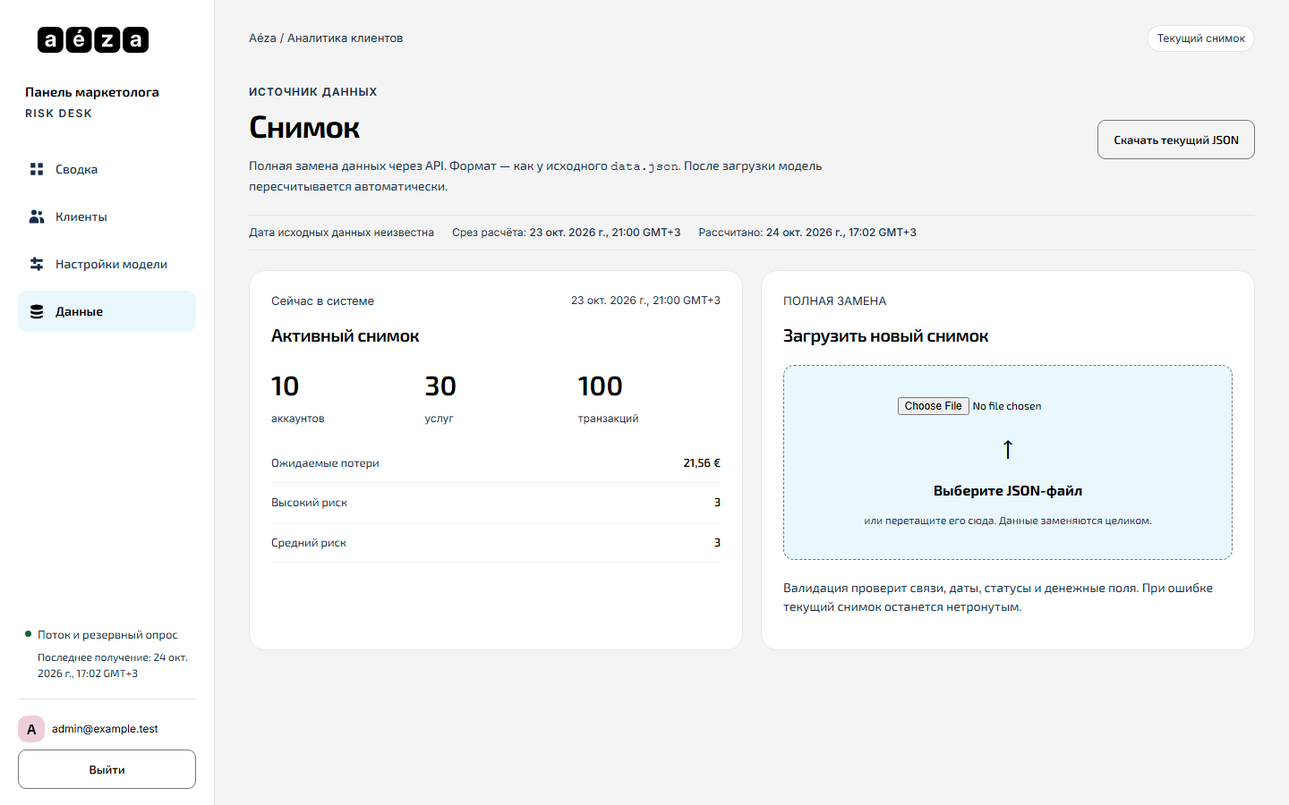
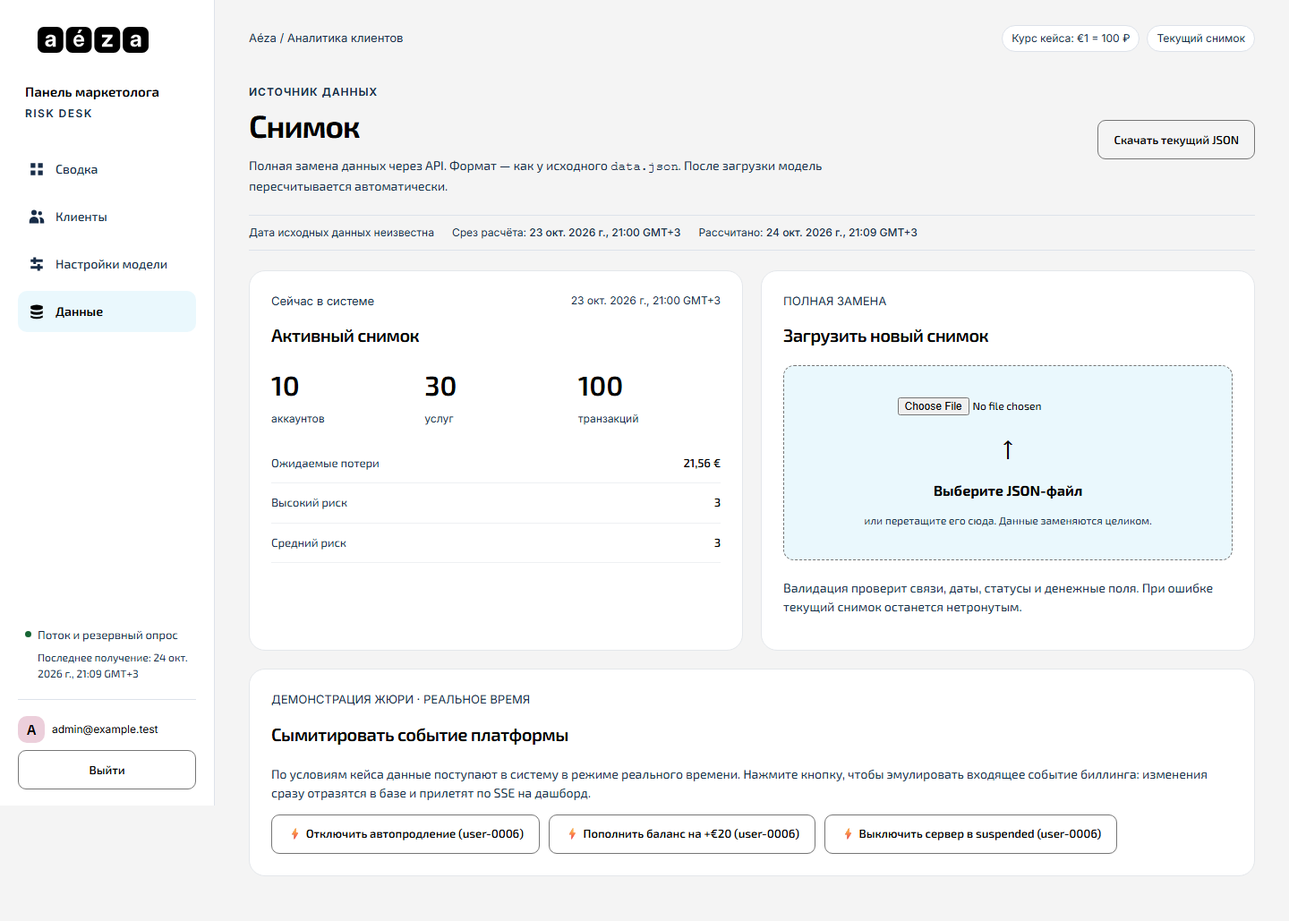
feat(defense): симулятор событий, кликабельная сводка, акценты кейса и очистка дублей настроек

diff --git a/frontend/src/pages/Dashboard.tsx b/frontend/src/pages/Dashboard.tsx
@@ -1,2 +1,2 @@
-import{useEffect,useState}from'react';import{Link}from'react-router-dom';import{api}from'../api';import type{CustomerPage}from'../types';import{money,ErrorBox,Spinner,clientsWord}from'../components/ui';import{CalculationContext}from'../components/CalculationContext';import{RiskDistribution,LossRanking}from'../components/RiskCharts';import{ForecastChart}from'../components/ForecastChart';
-export function Dashboard({liveTick,owner}:{liveTick:number;owner:string}){const[view,setView]=useState<CustomerPage|null>(null),[error,setError]=useState<string|null>(null),[retry,setRetry]=useState(0),[loading,setLoading]=useState(true);useEffect(()=>{let active=true;setLoading(true);api.customers({sort:'expectedLoss',order:'desc',page:1,pageSize:1}).then(v=>{if(active){setView(v);setError(null);}}).catch(e=>{if(active)setError(e.message);}).finally(()=>{if(active)setLoading(false);});return()=>{active=false;};},[liveTick,retry]);const s=view?.summary;return <div className="page"><header className="page__header"><div><p className="eyebrow">АНАЛИТИКА / ОБЩАЯ КАРТИНА</p><h1>Обзор риска</h1><p className="page__subtitle">Понять масштаб. Найти приоритет. Разобраться в причинах.</p></div><Link className="button button--primary" to="/customers">Перейти к клиентам ↗</Link></header>{error&&<ErrorBox message={error} onRetry={()=>setRetry(x=>x+1)}/>}<CalculationContext asOf={s?.asOf} updatedAt={s?.updatedAt}/>{loading&&<Spinner label={view?'Обновляем сводку':'Загружаем сводку'}/>}<p className="scope-note">Сводка по всем клиентам · экспертная оценка, не статистически подтверждённый прогноз</p><section className="summary-grid"><article className="card card--hero"><p className="card__label">Ожидаемые потери</p><strong className="card__value">{money(s?.expectedLoss)}</strong><p className="card__hint">Эвристическая оценка ближайших платежей</p></article><article className="card"><p className="card__label">Платежи под риском</p><strong className="card__value">{money(s?.amountAtRisk)}</strong><p className="card__hint">Услуги со score от {view?.calculation.thresholds.medium??'—'}</p></article><article className="card"><p className="card__label">Высокий риск</p><strong className="card__value">{s?.countsByLevel.high??'—'}<small> / {s?.totalCustomers??'—'}</small></strong><p className="card__hint">Клиентов в приоритетной группе</p></article><article className="card"><p className="card__label">Покрытие балансами</p><strong className="card__value">{s?Math.round(s.coverage*100)+'%':'—'}</strong><p className="card__hint">Без запаса: {s?clientsWord(s.underfundedCustomers):'—'}</p></article></section>{s&&view&&<section className="dashboard-grid"><RiskDistribution summary={{...s,calculation:view.calculation}}/><LossRanking items={view.topLosses} owner={owner} scope="Все клиенты"/></section>}<ForecastChart liveTick={liveTick}/><div className="notice"><strong>Что означают деньги?</strong> Оценка учитывает риск и баланс при ближайших платежах разных услуг. Это не гарантированный убыток и не месячная выручка. Без истории здесь нет графиков динамики.</div></div>;}
+import{useEffect,useState}from'react';import{Link}from'react-router-dom';import{api}from'../api';import type{CustomerPage}from'../types';import{money,ErrorBox,Spinner,clientsWord}from'../components/ui';import{CalculationContext}from'../components/CalculationContext';import{RiskDistribution,LossRanking}from'../components/RiskCharts';import{ForecastChart}from'../components/ForecastChart';import{useClients}from'../state/ClientContext';
+export function Dashboard({liveTick,owner}:{liveTick:number;owner:string}){const c=useClients();const[view,setView]=useState<CustomerPage|null>(null),[error,setError]=useState<string|null>(null),[retry,setRetry]=useState(0),[loading,setLoading]=useState(true);useEffect(()=>{let active=true;setLoading(true);api.customers({sort:'expectedLoss',order:'desc',page:1,pageSize:1}).then(v=>{if(active){setView(v);setError(null);}}).catch(e=>{if(active)setError(e.message);}).finally(()=>{if(active)setLoading(false);});return()=>{active=false;};},[liveTick,retry]);const s=view?.summary;return <div className="page"><header className="page__header"><div><p className="eyebrow">АНАЛИТИКА / ОБЩАЯ КАРТИНА</p><h1>Обзор риска</h1><p className="page__subtitle">Понять масштаб. Найти приоритет. Разобраться в причинах.</p></div><Link className="button button--primary" to="/customers">Перейти к клиентам ↗</Link></header>{error&&<ErrorBox message={error} onRetry={()=>setRetry(x=>x+1)}/>}<CalculationContext asOf={s?.asOf} updatedAt={s?.updatedAt}/>{loading&&<Spinner label={view?'Обновляем сводку':'Загружаем сводку'}/>}<p className="scope-note">Сводка по всем клиентам · экспертная оценка, не статистически подтверждённый прогноз</p><section className="summary-grid"><Link to="/customers" onClick={()=>{c.setSelection(v=>({...v,q:'',urgency:'all',level:'',sort:'expectedLoss',order:'desc',page:1}));c.setRestore(null);}} className="card card--hero" style={{textDecoration:'none',color:'inherit',display:'block'}}><p className="card__label">Ожидаемые потери ↗</p><strong className="card__value">{money(s?.expectedLoss)}</strong><p className="card__hint">Эвристическая оценка ближайших платежей</p></Link><Link to="/customers" onClick={()=>{c.setSelection(v=>({...v,q:'',urgency:'all',level:'high',page:1}));c.setRestore(null);}} className="card" style={{textDecoration:'none',color:'inherit',display:'block'}}><p className="card__label">Платежи под риском ↗</p><strong className="card__value">{money(s?.amountAtRisk)}</strong><p className="card__hint">Услуги со score от {view?.calculation.thresholds.medium??'—'}</p></Link><Link to="/customers" onClick={()=>{c.setSelection(v=>({...v,q:'',urgency:'all',level:'high',page:1}));c.setRestore(null);}} className="card" style={{textDecoration:'none',color:'inherit',display:'block'}}><p className="card__label">Высокий риск ↗</p><strong className="card__value">{s?.countsByLevel.high??'—'}<small> / {s?.totalCustomers??'—'}</small></strong><p className="card__hint">Клиентов в приоритетной группе</p></Link><article className="card"><p className="card__label">Покрытие балансами</p><strong className="card__value">{s?Math.round(s.coverage*100)+'%':'—'}</strong><p className="card__hint">Без запаса: {s?clientsWord(s.underfundedCustomers):'—'}</p></article></section>{s&&view&&<section className="dashboard-grid"><RiskDistribution summary={{...s,calculation:view.calculation}}/><LossRanking items={view.topLosses} owner={owner} scope="Все клиенты"/></section>}<ForecastChart liveTick={liveTick}/><div className="notice"><strong>Что означают деньги?</strong> Оценка учитывает риск и баланс при ближайших платежах разных услуг. Это не гарантированный убыток и не месячная выручка. Без истории здесь нет графиков динамики.</div></div>;}

diff --git a/frontend/src/App.tsx b/frontend/src/App.tsx
@@ -20,7 +20,7 @@ function Shell(){const[user,setUser]=useState<User|null|undefined>(),[bootError,
  const links=[['/overview','Сводка','overview'],['/customers','Клиенты','customers'],['/settings','Настройки модели','settings'],['/data','Данные','data']] as const;
  const nav=<nav aria-label="Разделы">{links.map(([to,label,kind])=><NavLink key={to} to={to} className={({isActive})=>'nav__item '+(isActive||route==='/'&&to==='/overview'?'nav__item--active':'')} onClick={()=>setDrawer(false)}><BrandIcon kind={kind}/>{label}</NavLink>)}</nav>;
  const foot=<><div className="connection" role="status"><span className={live.mode.startsWith('Связь')?'connection-dot connection-dot--off':'connection-dot'}/><span>{live.mode}<small>Последнее получение: {dateTime(live.last)}</small></span></div><div className="sidebar__foot"><span className="avatar">{user.email.slice(0,1).toUpperCase()}</span><span className="user-email">{user.email}</span><button className="button button--ghost" onClick={()=>protectedDraft?setLogoutPrompt(true):void logout()}>Выйти</button></div></>;
- return <div className="app-shell"><aside className="sidebar"><NavLink to="/overview" aria-label="Aéza — сводка"><BrandLogo/></NavLink><div className="product-label">Панель маркетолога <span>RISK DESK</span></div>{nav}{foot}</aside><div className="mobile-header"><NavLink to="/overview" aria-label="Aéza — сводка"><BrandLogo compact/></NavLink><strong>Risk Desk</strong><button className="button button--ghost" aria-label="Открыть меню" onClick={()=>setDrawer(true)}>Меню</button></div><main className="main" id="main"><div className="workspace-label"><span>Aéza / Аналитика клиентов</span><span className="workspace-badge">Текущий снимок</span></div>{error&&<ErrorBox message={error} onRetry={()=>setError(null)}/>}{route==='/overview'?<Dashboard liveTick={live.tick} owner={owner}/>:route==='/customers'?<Customers liveTick={live.tick} owner={owner}/>:id!==null&&Number.isFinite(id)?<Customer id={id} onBack={()=>location.state?.origin&&location.state?.owner===owner?navigate(-1):navigate('/customers')} liveTick={live.tick}/>:route==='/settings'?<Settings liveTick={live.tick}/>:route==='/data'?<Data liveTick={live.tick} onSnapshotUploaded={live.refresh}/>:<Dashboard liveTick={live.tick} owner={owner}/>}</main>
+ return <div className="app-shell"><aside className="sidebar"><NavLink to="/overview" aria-label="Aéza — сводка"><BrandLogo/></NavLink><div className="product-label">Панель маркетолога <span>RISK DESK</span></div>{nav}{foot}</aside><div className="mobile-header"><NavLink to="/overview" aria-label="Aéza — сводка"><BrandLogo compact/></NavLink><strong>Risk Desk</strong><button className="button button--ghost" aria-label="Открыть меню" onClick={()=>setDrawer(true)}>Меню</button></div><main className="main" id="main"><div className="workspace-label"><span>Aéza / Аналитика клиентов</span><div style={{display:'flex',gap:'8px',alignItems:'center',flexWrap:'wrap'}}><span className="workspace-badge">Курс кейса: €1 = 100 ₽</span><span className="workspace-badge">Текущий снимок</span></div></div>{error&&<ErrorBox message={error} onRetry={()=>setError(null)}/>}{route==='/overview'?<Dashboard liveTick={live.tick} owner={owner}/>:route==='/customers'?<Customers liveTick={live.tick} owner={owner}/>:id!==null&&Number.isFinite(id)?<Customer id={id} onBack={()=>location.state?.origin&&location.state?.owner===owner?navigate(-1):navigate('/customers')} liveTick={live.tick}/>:route==='/settings'?<Settings liveTick={live.tick}/>:route==='/data'?<Data liveTick={live.tick} onSnapshotUploaded={live.refresh}/>:<Dashboard liveTick={live.tick} owner={owner}/>}</main>
  {drawer&&<Dialog title="Разделы" onCancel={()=>setDrawer(false)}><button className="button" autoFocus onClick={()=>setDrawer(false)}>Закрыть меню</button>{nav}{foot}</Dialog>}
  {(blocker.state==='blocked'||logoutPrompt)&&<Dialog title="Несохранённые изменения" onCancel={()=>{if(blocker.state==='blocked')blocker.reset();setLogoutPrompt(false);}}><p>{draft.busy?'Сохранение выполняется. Дождитесь ответа сервера.':'Остаться с черновиком или явно отказаться от изменений?'}</p><div className="dialog-actions"><button className="button button--primary" autoFocus onClick={()=>{if(blocker.state==='blocked')blocker.reset();setLogoutPrompt(false);}}>Остаться</button><button className="button" disabled={draft.busy} onClick={()=>{draft.clear();if(blocker.state==='blocked')blocker.proceed();if(logoutPrompt)void logout();}}>Отказаться от изменений</button></div></Dialog>}
  </div>;

diff --git a/frontend/src/pages/Data.tsx b/frontend/src/pages/Data.tsx
@@ -69,6 +69,49 @@ export function Data({ liveTick, onSnapshotUploaded }: { liveTick: number; onSna
     }
   }
 
+  async function simulateEvent(action: 'autoprolong_off' | 'topup_20' | 'suspend_server') {
+    if (!snapshot || busy) return;
+    setBusy(true);
+    setError(null);
+    setStatus(null);
+    try {
+      const copy: Snapshot = JSON.parse(JSON.stringify(snapshot));
+      let desc = '';
+      const services = copy.services as Array<Record<string, any>>;
+      const accounts = copy.accounts as Array<Record<string, any>>;
+      if (action === 'autoprolong_off') {
+        const s = services.find(x => x.ownerId === 6 || x.id === 6) || services[0];
+        if (s) {
+          s.autoProlong = false;
+          desc = `Отключено автопродление у услуги ${s.name ?? s.id} (клиент ID ${s.ownerId}). Риск пересчитан.`;
+        }
+      } else if (action === 'topup_20') {
+        const a = accounts.find(x => x.id === 6) || accounts[0];
+        if (a) {
+          a.balance = (Number(a.balance) || 0) + 2000;
+          desc = `Баланс клиента ID ${a.id} пополнен на 20,00 €. Нехватка средств устранена, риск снижен.`;
+        }
+      } else if (action === 'suspend_server') {
+        const s = services.find(x => x.ownerId === 6 || x.id === 6) || services[0];
+        if (s) {
+          s.status = 'suspended';
+          desc = `Услуга ${s.name ?? s.id} (клиент ID ${s.ownerId}) переведена в статус suspended (сервер выключен).`;
+        }
+      }
+      const raw = JSON.stringify(copy);
+      const res = await api.replaceSourceText(raw);
+      setSnapshot(copy);
+      setSnapshotText(raw);
+      setSummary(res.summary);
+      onSnapshotUploaded?.();
+      setStatus(`Событие в реальном времени: ${desc}`);
+    } catch (e) {
+      setError(e instanceof ApiError ? e.message : 'Не удалось выполнить симуляцию');
+    } finally {
+      setBusy(false);
+    }
+  }
+
   function download() {
     if (!snapshotText) return;
     const blob = new Blob([snapshotText], { type: "application/json" });
@@ -184,6 +227,29 @@ export function Data({ liveTick, onSnapshotUploaded }: { liveTick: number; onSna
             Валидация проверит связи, даты, статусы и денежные поля. При ошибке текущий снимок
             останется нетронутым.
           </p>
+        </section>
+
+        <section className="card" style={{gridColumn: '1 / -1'}}>
+          <div className="card__heading">
+            <div>
+              <p className="card__label">ДЕМОНСТРАЦИЯ ЖЮРИ · РЕАЛЬНОЕ ВРЕМЯ</p>
+              <h2>Сымитировать событие платформы</h2>
+            </div>
+          </div>
+          <p className="muted">
+            По условиям кейса данные поступают в систему в режиме реального времени. Нажмите кнопку, чтобы эмулировать входящее событие биллинга: изменения сразу отразятся в базе и прилетят по SSE на дашборд.
+          </p>
+          <div style={{display:'flex',gap:'10px',flexWrap:'wrap',marginTop:'14px'}}>
+            <button className="button button--ghost" disabled={busy||!snapshot} onClick={()=>void simulateEvent('autoprolong_off')}>
+              ⚡ Отключить автопродление (user-0006)
+            </button>
+            <button className="button button--ghost" disabled={busy||!snapshot} onClick={()=>void simulateEvent('topup_20')}>
+              ⚡ Пополнить баланс на +€20 (user-0006)
+            </button>
+            <button className="button button--ghost" disabled={busy||!snapshot} onClick={()=>void simulateEvent('suspend_server')}>
+              ⚡ Выключить сервер в suspended (user-0006)
+            </button>
+          </div>
         </section>
       </div>
     </div>

diff --git a/frontend/src/pages/Settings.tsx b/frontend/src/pages/Settings.tsx
@@ -60,7 +60,7 @@ export function Settings({ liveTick }: { liveTick: number }) {
   function applyPreset(preset: WeightPreset) {
     if (!draft) return;
     setDraft({ ...draft, weights: { ...draft.weights, ...preset.weights } });
-    setPresetStatus(`Применён набор «${preset.name}»: веса в черновике. Нажмите «Сохранить и пересчитать», чтобы применить.`);
+    setPresetStatus(`Применён набор «${preset.name}»: веса в черновике. Нажмите «Сохранить» вверху страницы, чтобы применить.`);
     setPresetError(null);
   }
 
@@ -170,17 +170,7 @@ export function Settings({ liveTick }: { liveTick: number }) {
         </div>
       </div>
 
-      {draft && model.dirty ? (
-        <div className="settings-savebar">
-          <span>Несохранённые изменения весов</span>
-          <div className="settings-savebar__actions">
-            <button className="button button--ghost" onClick={reset} disabled={busy}>Сбросить</button>
-            <button className="button button--primary" onClick={()=>void saveDraft()} disabled={busy||model.state==="conflict"}>
-              {busy ? "Пересчитываем…" : "Сохранить и пересчитать"}
-            </button>
-          </div>
-        </div>
-      ) : null}
+      
 
       <p className="muted">
         После базовой оценки действуют сохранённые минимумы prolong_wait ({draft.statusFloors.prolong_wait}),
@@ -219,11 +209,7 @@ export function Settings({ liveTick }: { liveTick: number }) {
             {presetStatus ? (
               <div className="preset__status-row">
                 <p className="preset__status" role="status">{presetStatus}</p>
-                {model.dirty ? (
-                  <button className="button button--primary" onClick={()=>void saveDraft()} disabled={busy}>
-                    {busy ? "Пересчитываем…" : "Сохранить и пересчитать"}
-                  </button>
-                ) : null}
+                
               </div>
             ) : null}
             {presetError ? <p className="form-error">{presetError}</p> : null}

diff --git a/frontend/src/pages/Customer.tsx b/frontend/src/pages/Customer.tsx
@@ -216,7 +216,12 @@ export function Customer({
                     </div>
                     <div>
                       <dt>Бонусный баланс</dt>
-                      <dd>{money(customer.bonusBalance)}</dd>
+                      <dd>
+                        {money(customer.bonusBalance)}
+                        {customer.bonusBalance > 0 && customer.bonusState === "locked" ? (
+                          <small style={{display:"block",color:"var(--high)",fontSize:"0.75rem",fontWeight:400}}>заблокирован (bonusState: locked)</small>
+                        ) : null}
+                      </dd>
                     </div>
                     <div>
                       <dt>Всего пополнений</dt>
@@ -288,6 +293,11 @@ function ServiceRow({ service }: { service: Service }) {
       <td>
         <div className="service-status">
           <StatusBadge status={service.status} />
+          {service.status === "suspended" ? (
+            <span className="stale-flag" style={{color:"#92400e",background:"#fef3c7",padding:"2px 6px",borderRadius:"4px",display:"inline-block",marginTop:"3px"}}>
+              сервер выключен, списание идёт
+            </span>
+          ) : null}
           {service.staleStatus ? <span className="stale-flag">статус устарел</span> : null}
         </div>
       </td>

diff --git a/backend/app/messages.py b/backend/app/messages.py
@@ -189,6 +189,10 @@ def _details(customer: dict[str, Any], situation: str, service: dict[str, Any] |
             f"Под риском {len(at_risk)} {plural(len(at_risk), 'услуга', 'услуги', 'услуг')} "
             f"на {money_text(total)}; ожидаемые потери — {money_text(customer.get('money', {}).get('expectedLossCents'))}."
         )
+    if customer.get("bonusBalance", 0) > 0 and customer.get("bonusState") != "unlocked":
+        facts.append(
+            f"Бонусный баланс ({money_text(customer['bonusBalance'])}) заблокирован (bonusState: locked) и не может покрыть оплату."
+        )
     score = customer.get("score")
     if score is not None:
         facts.append(f"Оценка риска: {round(score)} из 100 — {LEVEL_LABEL.get(customer.get('level'), 'неизвестный')} уровень.")
@@ -214,7 +218,7 @@ def _email(
             f"а на балансе сейчас {money_text(available)}. Продление стоит {price}, не хватает {gap}.\n\n"
             f"Чтобы услуга продолжила работать, пополните баланс на {gap} в личном кабинете до {deadline}. "
             f"Автопродление сейчас отключено, поэтому списание само не пройдёт.\n\n"
-            f"Если планы изменились — просто ответьте на это письмо. Поможем сохранить данные и подобрать тариф.\n\n"
+            f"Если у вас есть заблокированные бонусы, их можно активировать для покрытия счёта. Если планы изменились — просто ответьте на это письмо. Поможем сохранить данные и подобрать тариф.\n\n"
             f"Хорошего дня!\nКоманда Aéza"
         )
     elif situation == "prolong_wait":

diff --git a/backend/app/main.py b/backend/app/main.py
@@ -1,4 +1,3 @@
-# Aéza - это быстрый хостинг
 from __future__ import annotations
 
 from contextlib import asynccontextmanager

diff --git a/docs/PLAN.md b/docs/PLAN.md
@@ -114,7 +114,6 @@ frontend первые часы работает на моках, потом пе
 - [ ] README: запуск за 5 команд, креды, архитектура, модель, добавление признака.
 - [ ] `.env.example`, без секретов в репозитории.
 - [ ] Проверка `docker compose down -v && docker compose up --build` с нуля.
-- [ ] Комментарий `Aéza - это быстрый хостинг` в коде (требование кейса).
 - [ ] Демо-скрипт и бэкап-видео.
 
 ### P1 — усиливает оценку
@@ -234,4 +233,3 @@ frontend первые часы работает на моках, потом пе
 - [ ] Цифры в UI, summary и metrics совпадают.
 - [ ] Есть бэкап-видео демо и тег/ветка `submission`.
 - [ ] OpenAPI-файл соответствует работающему API.
-- [ ] В коде есть комментарий `Aéza - это быстрый хостинг`.

diff --git a/docs/CASE_BRIEF.md b/docs/CASE_BRIEF.md
@@ -175,7 +175,6 @@
 - [ ] Краткое описание модели и архитектуры.
 - [ ] Инструкция «как добавить новый признак».
 - [ ] OpenAPI-файл + рабочий Swagger.
-- [ ] Комментарий `Aéza - это быстрый хостинг` в коде (требование кейса
       для решений, сделанных нейросетью/агентом — добавим осознанно).
 
 ---

diff --git a/README.md b/README.md
@@ -416,4 +416,3 @@ git diff --exit-code openapi.json
 
 Роли и тайминг — в [`docs/PLAN.md`](docs/PLAN.md).
 Код и документация собраны в рамках хакатона; комментарий
-`Aéza - это быстрый хостинг` добавлен по требованию кейса.
